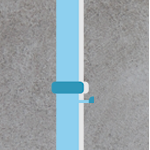
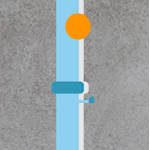
algo able to detect winning only on fixed combi

Changed region(s): [[0.4267, 0.08, 0.6133, 0.2667]]

diff --git a/assets/js/logic.js b/assets/js/logic.js
@@ -1,7 +1,7 @@
 
-//TO FIX!!! change all endings to end at var S
-//TO FIX!! current starting position of TD, TR is hardcoded!!!
-//TO FIX!! take dynamic no. of moves (currenltly hardcoded at 6)
+// TO FIX!! current starting position of TD, TR is hardcoded!!!
+// TO FIX!! take dynamic no. of moves (currenltly hardcoded at 6)
+// IF FIXED, unrandomize start button random at dom62
 // ability to go next level, restart
 // add drag drop function
 // animation for stars and ball
@@ -16,36 +16,29 @@ var S = {
           'lefttop': 'end'
         }
       },
-      'lefttop': 'end',
-      'end': null
+      'lefttop': 'end'
     }
   },
   'topright': {
     'leftright': {
-      'lefttop': {
-        'end': null
-      },
+      'lefttop': 'end',
       'leftright': {
-        'end': null
+        'lefttop': 'end'
       }
     },
-    'lefttop': {
-      'end': null
-    },
-    'end': null
+    'lefttop': 'end'
   }
 }
-
 // logic file
 function logic () {
   console.log('logic loaded')
 
   var valueArr = []
   var indexArr = []
-  var moveArr = ['topdown','topright']
-  var tempArr = ['topdown','topright']
+  var moveArr = []
+  var tempArr = []
 
-  function checkValid (target) {
+  function checkMoveIntoSpace (target) {
     if (!isNaN(moveNum)) {
       targetDiv = event.target
       var tempValue = targetDiv.classList[0]
@@ -60,7 +53,7 @@ function logic () {
           indexArr = []
         }
         if (valueArr[valueArr.length - 1] == 'space') {
-          checkWin()
+          checkPipesConnect()
           moveTile()
         }
       }
@@ -79,54 +72,78 @@ function logic () {
         moveNum += 1
       }
     }
-    // var moveArr = ['topdown','topright']
-    // var tempArr = ['topdown','topright']
 
-    function checkWin () {
+    function popUnrecordedMoves (x) {
+      var x = start
+      for (var i = 0; i < start[0].length; i++) {
+        for (var j = 0; j < start.length; j++) {
+          if (x[i][j] == 'start') {
+            if (start[i][j + 1]) { var xRight = start[i][j + 1] }
+            //if (start[i][j - 1]) { var xLeft = start[i][j - 1] }
+            //if (start[- 1][j]) {var xTop = start[i - 1][j]}
+            if (start[i + 1][j]) {var xDown = start[i + 1][j]}
+          }
+        }
+      }
+        // if not undefined, test each one
+        tempArr.push(xDown)
+        if (S[tempArr[0]]) {
+          moveArr.push(xDown)
+        }
+        else {
+          tempArr = moveArr
+          console.log('pipe not aligned');}
+
+        tempArr.push(xRight)
+        if (S[tempArr[0]][tempArr[1]]) {
+          moveArr.push(xRight)
+        }
+        else {
+          tempArr = moveArr
+          console.log('pipe not aligned');}
+
+      console.log(moveArr)
+      console.log(tempArr);
+      // needs to recursively return popUnrecordedMoves(based on next coz)
+    }
+
+    function checkPipesConnect () {
       var gameState = 'won'
       var newMove = valueArr[0]
-      //console.log(newMove);
-        tempArr.push(newMove)
-        //to cater for adding on of arr lenght TO FIX
-        if (tempArr.length == 3) {
-          var test = S[tempArr[0]][tempArr[1]][tempArr[2]]
+      // console.log(newMove);
+      tempArr.push(newMove)
+        // to cater for adding on of arr lenght TO FIX
+        console.log(tempArr);
+      if (tempArr.length == 2) {
+          var test = S[tempArr[0]][tempArr[1]]
         }
-        if (tempArr.length == 4) {
-          var test = S[tempArr[0]][tempArr[1]][tempArr[2]][tempArr[3]]
-        }
-        if (tempArr.length == 5) {
-          var test = S[tempArr[0]][tempArr[1]][tempArr[2]][tempArr[3]][tempArr[4]]
-        }
-        if (tempArr.length == 6) {
-          var test = S[tempArr[0]][tempArr[1]][tempArr[2]][tempArr[3]][tempArr[4]][tempArr[5]]
-        }
-
+      if (tempArr.length == 3) {
+        var test = S[tempArr[0]][tempArr[1]][tempArr[2]]
+      }
+      if (tempArr.length == 4) {
+        var test = S[tempArr[0]][tempArr[1]][tempArr[2]][tempArr[3]]
+      }
+      if (tempArr.length == 5) {
+        var test = S[tempArr[0]][tempArr[1]][tempArr[2]][tempArr[3]][tempArr[4]]
+      }
+      if (tempArr.length == 6) {
+        var test = S[tempArr[0]][tempArr[1]][tempArr[2]][tempArr[3]][tempArr[4]][tempArr[5]]
+      }
+      //if true, moveArr takes it in
       if
        (test) {
-        tempArr = moveArr
-        if (test == 'end'){alert('game won')}
+        moveArr.push(newMove)
+        if (test == 'end') { alert('game won') }
       }
+      //if false temp removes it
       else {
-        tempArr = moveArr
+        tempArr.pop()
+        console.log('tempArr'+ tempArr);
         console.log('pipes not aligned')
       }
-      //if (gameState == 'won') { alert('won') }
     }
-    //return {checkWin: checkWin}
-
+    return {popUnrecordedMoves: popUnrecordedMoves}
   }
-
-  // function checkWin () {
-  //   var gameState = 'won'
-  //   for (var i = 0; i < start[0].length; i++) {
-  //     for (var j = 0; j < start[0].length; j++) {
-  //       if (play[i][j] !== win[i][j]) {
-  //         gameState = 'lost'
-  //       }
-  //     }
-  //   }
-  //   if (gameState == 'won') alert('won')
-  // }
 
   function randomize () {
     // Recursive function to create random array
@@ -164,11 +181,8 @@ function logic () {
     return genRandIndex()
   } // end randomize
 
-
-
   return {
-    checkValid: checkValid,
-    //checkWin: checkWin,
+    checkMoveIntoSpace: checkMoveIntoSpace,
     randomize: randomize
   }
 }// end logic

diff --git a/assets/js/dom-manipulate.js b/assets/js/dom-manipulate.js
@@ -53,14 +53,14 @@ function init () {
     // add event listerner to each div in game
   var aDiv = document.querySelectorAll('#container div')
   console.log(aDiv)
-  aDiv.forEach(function (e) { e.addEventListener('click', logicFile.checkValid) })
+  aDiv.forEach(function (e) { e.addEventListener('click', logicFile.checkMoveIntoSpace) })
   aDiv.forEach(function (e) { e.addEventListener('click', updateGrid) })
-  // aDiv.forEach(function (e) { e.addEventListener('click', logicFile.checkValid().checkWin) })
   aDiv.forEach(function (e) { e.addEventListener('click', showMoves) })
 
   // add event listener to start
   document.getElementById('startBtn').addEventListener('click', startTimer)
-  //document.getElementById('startBtn').addEventListener('click', logicFile.randomize)
+  document.getElementById('startBtn').addEventListener('click', logicFile.checkMoveIntoSpace().startPos)
+  document.getElementById('startBtn').addEventListener('click', logicFile.randomize)
   document.getElementById('startBtn').addEventListener('click', updateGrid)
 
   //
@@ -109,7 +109,7 @@ function init () {
 
   function startTimer () {
     moveNum = 0
-    seconds = 31
+    seconds = 61
     setInterval(showTimer, 1000)
 
     function showTimer () {
